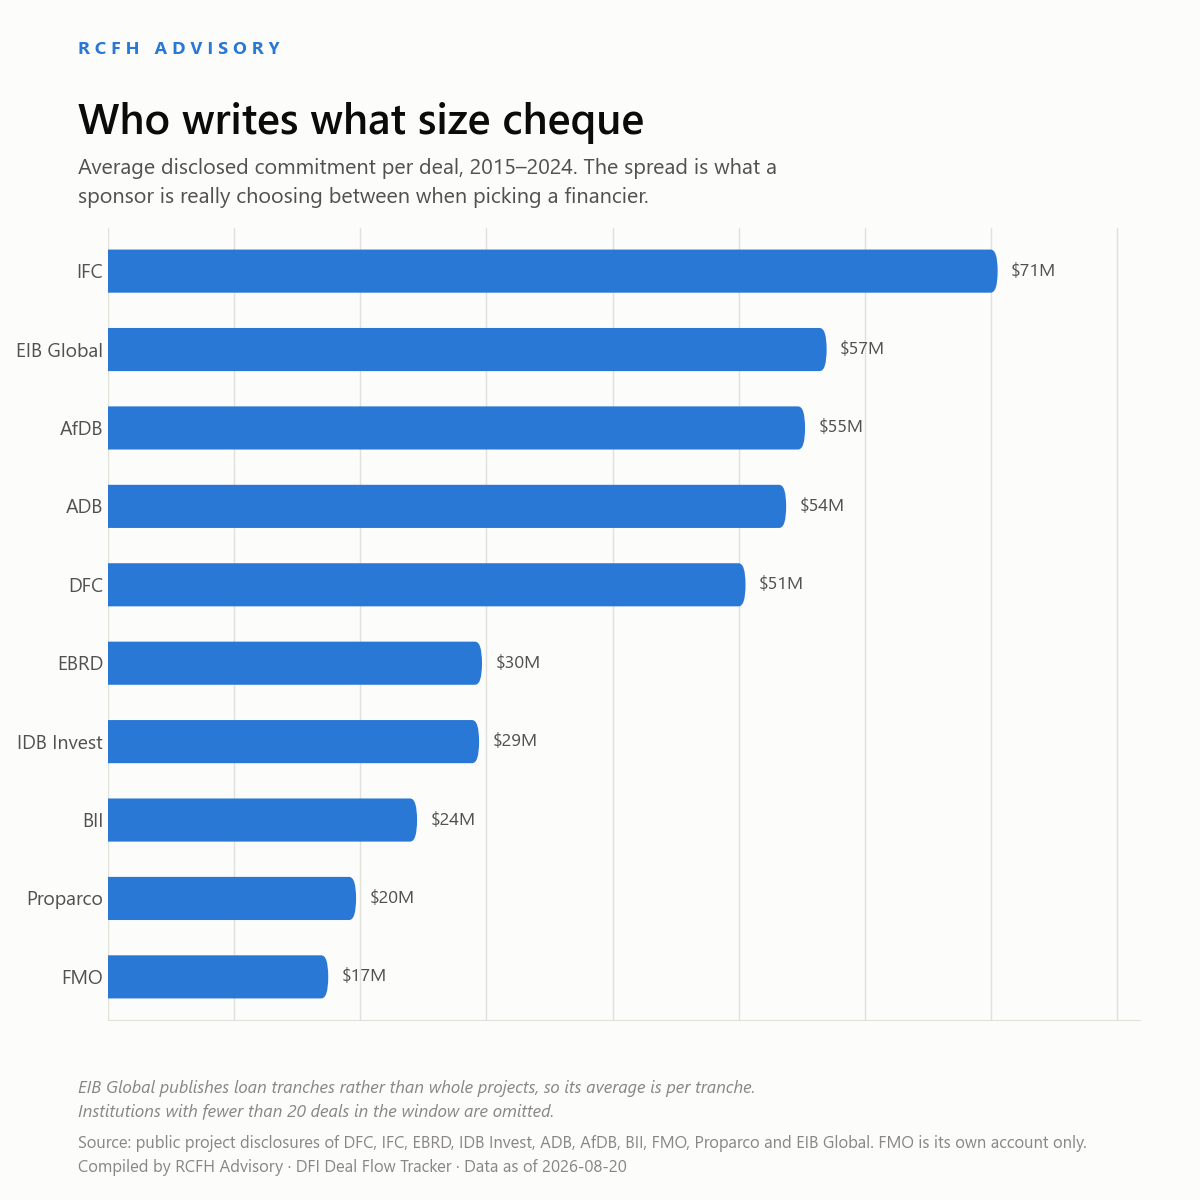
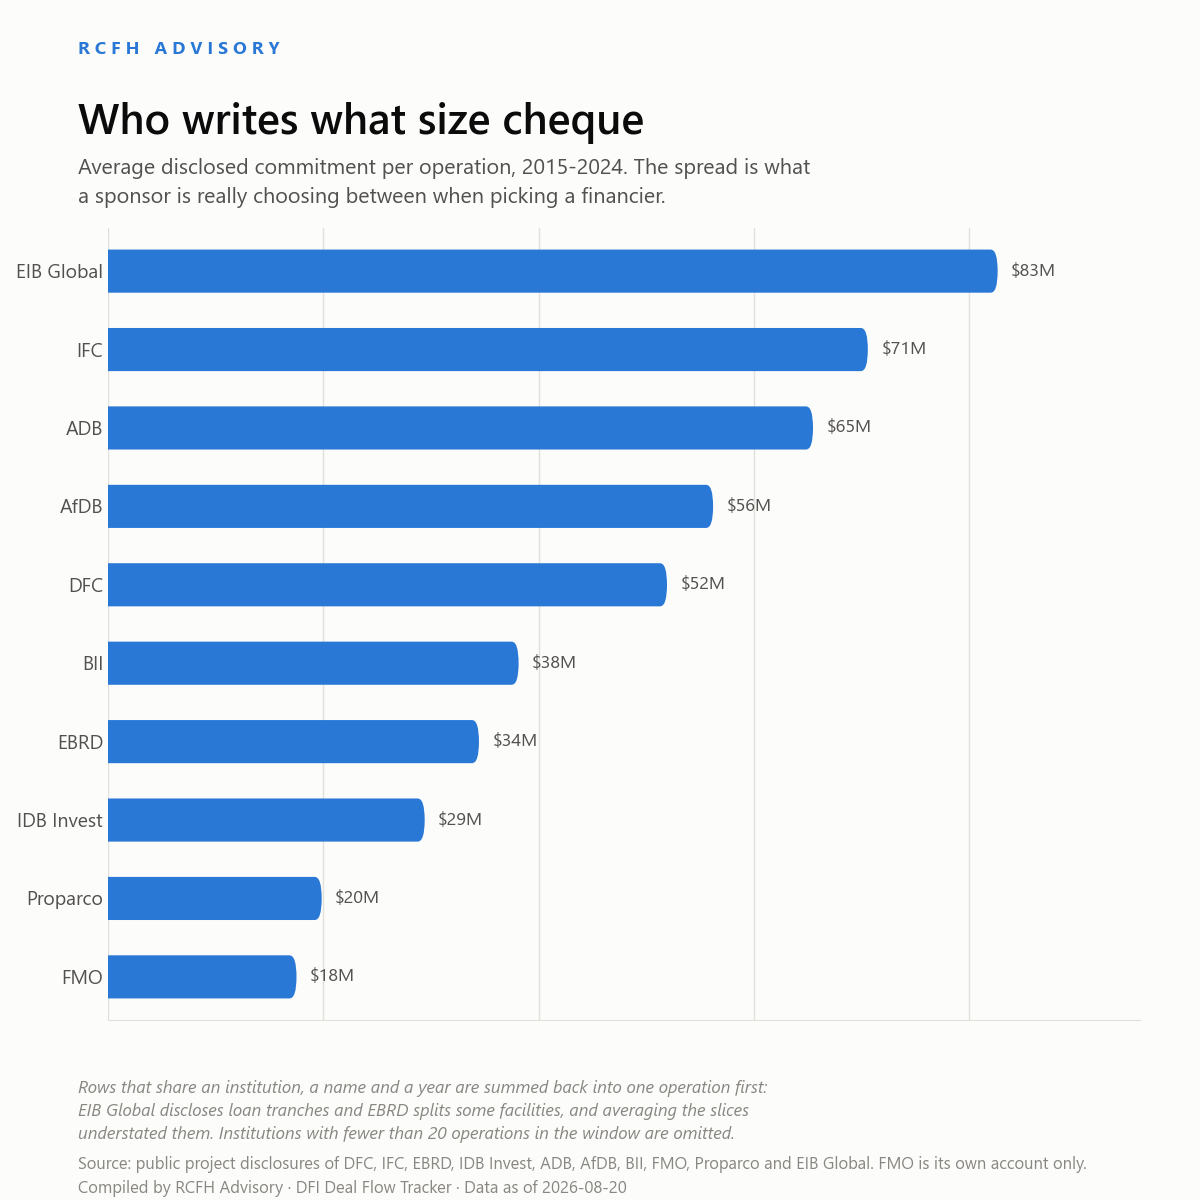
Count operations, not rows, in the two count-based charts
EIB Global discloses loan TRANCHES rather than whole projects, and EBRD
splits some facilities the same way. A single deal therefore arrives as
several rows: EIB's "Global Green Bond Initiative" is 24 rows sharing one
name and one date, EBRD's "CTP Green Bond" is six.

Chart 06 (labelled debt) counted rows, so it showed EIB Global with 29
labels when it has 3, and ranked it fourth. Now 230 labels across 221
operations; EIB sits where it belongs, second from bottom.

The rule is (institution, name, DATE), not name alone. EBRD genuinely
returns to the same client - "ONCF Green Bond" was signed in 2022 and again
in 2025 - and those are two operations. Collapsing on name alone would have
under-counted EBRD by three.

Checking whether the same fault hit anything else found that it did, and
materially. Chart 04 (average ticket size) was dividing one cheque by the
number of slices it arrived in:

    EIB Global   $57.2m per row  ->  $77.8m per operation   (+27%)
    EBRD         $28.7m per row  ->  $33.6m per operation   (+17%)
    IFC          unchanged - it publishes one row per deal

On the corrected basis EIB Global has the LARGEST average commitment of the
ten at $83m, ahead of IFC, rather than sitting mid-table. The chart's old
note admitted the tranche issue in words while still printing the
uncorrected number; now the number is right.

diff --git a/export_charts.py b/export_charts.py
@@ -355,21 +355,35 @@ def chart_sectors(rows, as_of):
 
 
 def chart_ticket_size(rows, as_of):
+    """Average cheque size, per OPERATION rather than per row.
+
+    EIB Global and EBRD both split a single operation across several
+    disclosed rows - EIB by loan tranche, EBRD for some facilities. Averaging
+    rows therefore divided one cheque by the number of slices it arrived in,
+    understating EIB Global by 27% ($57.2m against $77.8m) and EBRD by 17%.
+    Summing to the operation first is the like-for-like comparison, since
+    IFC, DFC and the others already publish one row per deal.
+    """
     data = recent(rows)
-    per = {}
+    # Sum the slices of one operation back together before averaging.
+    operations = {}
     for r in data:
-        per.setdefault(r["institution"], []).append(r["amount_usd"])
+        key = (r["institution"], (r["project_name"] or "").lower(), r["year"])
+        operations[key] = operations.get(key, 0) + r["amount_usd"]
+    per = {}
+    for (institution, _, _), amount in operations.items():
+        per.setdefault(institution, []).append(amount)
     stats = sorted(((k, sum(v) / len(v)) for k, v in per.items() if len(v) >= 20),
                    key=lambda kv: -kv[1])
     return hbar_chart(
         [k for k, _ in stats], [v for _, v in stats],
         "Who writes what size cheque",
-        "Average disclosed commitment per deal, 2015–2024. The spread is what a\n"
-        "sponsor is really choosing between when picking a financier.",
+        "Average disclosed commitment per operation, 2015-2024. The spread is what\n"
+        "a sponsor is really choosing between when picking a financier.",
         as_of, "04_ticket_size.png",
-        note=("EIB Global publishes loan tranches rather than whole projects, so its "
-              "average is per tranche.\nInstitutions with fewer than 20 deals in the "
-              "window are omitted."))
+        note=("Rows that share an institution, a name and a year are summed back into one operation first:\n"
+              "EIB Global discloses loan tranches and EBRD splits some facilities, and averaging the slices\n"
+              "understated them. Institutions with fewer than 20 operations in the window are omitted."))
 
 
 def chart_cofinancing(rows, as_of):
@@ -415,47 +429,56 @@ THEME_COLORS = {
 def chart_thematic(as_of):
     """Who issues labelled debt, and in which flavour.
 
-    A COMPOSITION chart rather than a time series, and that is the point.
-    The year-by-year count swings hard — 27, 12, 33 across 2022–2024 — but the
-    swing is almost entirely one institution: EBRD booked ten green bonds in
-    2021, seven in 2022, NONE in 2023 and four in 2024. Take EBRD out and the
-    rest is flat noise between two and eight a year. At this sample size a
-    trend line would dress one lender's programme decisions up as a market
-    signal, so the chart shows composition, which is stable, instead.
+    COUNTS OPERATIONS, NOT ROWS. EIB Global's grain is loan PARTS, so its
+    "Global Green Bond Initiative" arrives as 24 rows sharing one name and one
+    date — counting rows showed EIB with 29 labels when it has 3, and put it
+    fourth on this chart. EBRD splits some operations the same way: "CTP Green
+    Bond" is six rows on a single date.
+
+    The rule is (institution, name, approval date), not name alone. EBRD
+    genuinely returns to the same client — "ONCF Green Bond" was signed in
+    2022 and again in 2025 — and those are two operations, not one. Collapsing
+    on name alone would have under-counted EBRD by three.
+
+    A COMPOSITION chart rather than a time series, and that is deliberate.
+    The year-by-year count swings hard, but the swing is almost entirely one
+    institution: EBRD booked ten green bonds in 2021, seven in 2022, NONE in
+    2023 and four in 2024. Take EBRD out and the rest is flat noise between
+    two and eight a year. At this sample size a trend line would dress one
+    lender's programme decisions up as a market signal.
     """
     conn = sqlite3.connect(DB_PATH)
     conn.row_factory = sqlite3.Row
+    # One row per (operation, theme). The inner DISTINCT is what collapses
+    # tranche-split rows into the operation they belong to.
+    operations = """
+        SELECT DISTINCT p.institution inst, lower(p.project_name) nm,
+               COALESCE(p.approval_date, '') dt, t.theme, t.labelled_instrument li
+        FROM projects p JOIN project_themes t ON t.project_id = p.id
+    """
     rows = conn.execute(
-        """SELECT p.institution, t.theme, COUNT(DISTINCT p.id) n
-           FROM projects p JOIN project_themes t ON t.project_id = p.id
-           GROUP BY 1, 2""").fetchall()
-    # Order by LABELS, the same quantity the bar length shows. Ordering by
-    # deals instead put IDB Invest's 77 labels below EBRD's 74, because a deal
-    # carrying two labels is one deal and two segments.
+        f"SELECT inst, theme, COUNT(*) n FROM ({operations}) GROUP BY 1, 2"
+    ).fetchall()
     order = [r[0] for r in conn.execute(
-        """SELECT p.institution FROM projects p
-           JOIN project_themes t ON t.project_id = p.id
-           GROUP BY p.institution ORDER BY COUNT(*) DESC""")]
-    deals, labels, bonds, loans = conn.execute(
-        """SELECT COUNT(DISTINCT project_id), COUNT(*),
-                  COUNT(DISTINCT CASE WHEN labelled_instrument = 'bond'
-                                      THEN project_id END),
-                  COUNT(DISTINCT CASE WHEN labelled_instrument = 'loan'
-                                      THEN project_id END)
-           FROM project_themes""").fetchone()
+        f"SELECT inst FROM ({operations}) GROUP BY inst ORDER BY COUNT(*) DESC")]
+    ops, labels, bonds, loans = conn.execute(f"""
+        SELECT COUNT(DISTINCT inst || '|' || nm || '|' || dt), COUNT(*),
+               SUM(CASE WHEN li = 'bond' THEN 1 ELSE 0 END),
+               SUM(CASE WHEN li = 'loan' THEN 1 ELSE 0 END)
+        FROM ({operations})""").fetchone()
     conn.close()
 
-    counts = {(r["institution"], r["theme"]): r["n"] for r in rows}
+    counts = {(r["inst"], r["theme"]): r["n"] for r in rows}
     order = order[::-1]                       # barh draws bottom-up
 
     fig, ax = brand_frame(
         "Who issues labelled debt",
-        f"{labels} labels across {deals} deals and ten institutions, by the\n"
+        f"{labels} labels across {ops} operations and ten institutions, by the\n"
         "label the issuer itself gave each one.",
         as_of,
-        note=(f"Bars count LABELS, not deals: {labels} labels sit on {deals} deals - a bond can be both social and gender.\n"
-              f"Bonds and loans both count ({bonds} bonds, {loans} loans): a green loan is labelled under the Loan Market\n"
-              "Association's principles exactly as a green bond is under ICMA's. Counts are a floor."),
+        note=(f"Bars count LABELS: {labels} on {ops} operations — one bond can be both social and gender. Bonds and loans\n"
+              f"both count ({bonds} and {loans}); repeated tranches of one operation are counted once, which is why EIB\n"
+              "Global shows 3 and not 29. Counts are a floor: they depend on the issuer using a recognised phrase."),
         left=0.135)
 
     left = {i: 0 for i in order}

diff --git a/data_dictionary.md b/data_dictionary.md
@@ -900,3 +900,33 @@ contributes 27 rows carrying only **2 distinct names** — the "Global Green
 Bond Initiative" counted once per loan tranche, because EIB's grain is loan
 parts, not projects. Counting rows there would have shown a 2026 boom that is
 one programme.
+
+### Rows versus operations
+
+`project_themes` has one row per project row, and for most institutions that
+is one row per deal. **EIB Global and EBRD are different**: EIB discloses loan
+*tranches* rather than whole projects, and EBRD splits some facilities the
+same way. EIB's "Global Green Bond Initiative" is 24 rows sharing one name and
+one date; EBRD's "CTP Green Bond" is six.
+
+So counting rows and counting deals give different answers, and both are
+legitimate depending on the question:
+
+| Basis | Deals / labels | EIB Global |
+|---|---|---|
+| Project rows | 265 deals, 274 labels | 29 |
+| Operations — (institution, name, date) | 221 operations, 230 labels | 3 |
+
+`export_charts.py` counts **operations**, because "how many green bonds did
+EIB do" should not answer 29 when the answer is 3.
+
+The rule is (institution, name, **date**), not name alone. EBRD genuinely
+returns to the same client — "ONCF Green Bond" was signed in 2022 and again in
+2025 — and those are two operations. Collapsing on name alone under-counted
+EBRD by three.
+
+The same correction applies to the **average ticket size** chart, where
+averaging tranches divided one cheque by the number of slices it arrived in:
+EIB Global was understated by 27% ($57.2m per row against $77.8m per
+operation) and EBRD by 17%. On the corrected basis EIB Global has the largest
+average commitment of the ten, not a mid-table one.

diff --git a/README.md b/README.md
@@ -79,6 +79,15 @@ python export_charts.py
 Writes seven LinkedIn-sized (1200x1200) PNGs into `charts/`: commitments over
 time, top countries, sector mix, average ticket size, co-financing pairs,
 labelled debt by institution, and mobilisation.
+
+Two of them count **operations, not rows**. EIB Global discloses loan
+tranches rather than whole projects and EBRD splits some facilities, so a
+single deal can arrive as many rows — EIB's "Global Green Bond Initiative"
+is 24 rows sharing one name and one date. Rows sharing an institution, a
+name and a date are summed back into one operation first. Without that,
+the labelled-debt chart showed EIB with 29 labels instead of 3, and the
+ticket-size chart understated EIB by 27% and EBRD by 17%.
+
 Every chart is drawn inside one shared frame that stamps the RCFH Advisory
 wordmark and the **source attribution footer** — the footer belongs to the
 frame, not to each chart, so a published chart cannot lose it.
